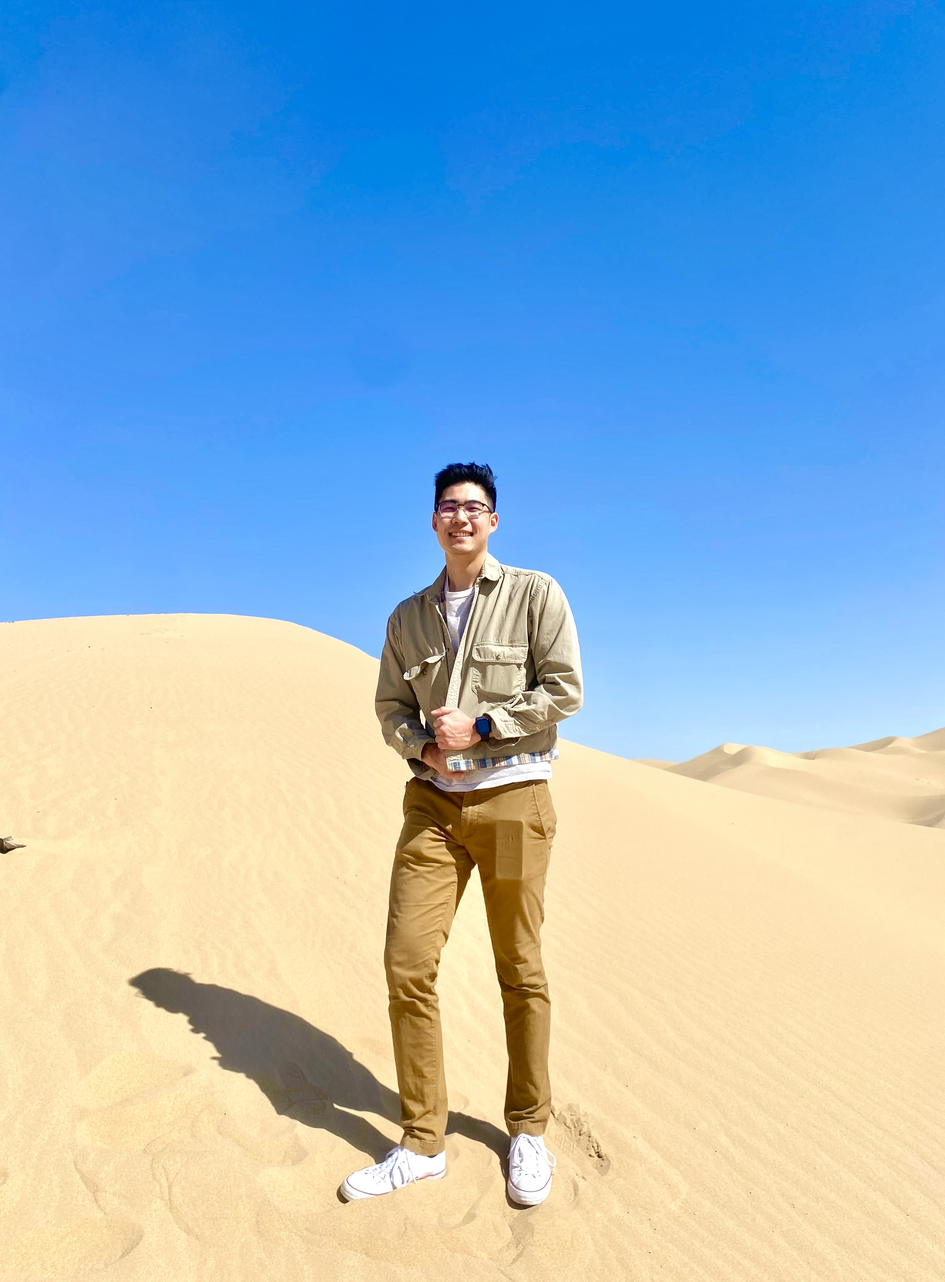
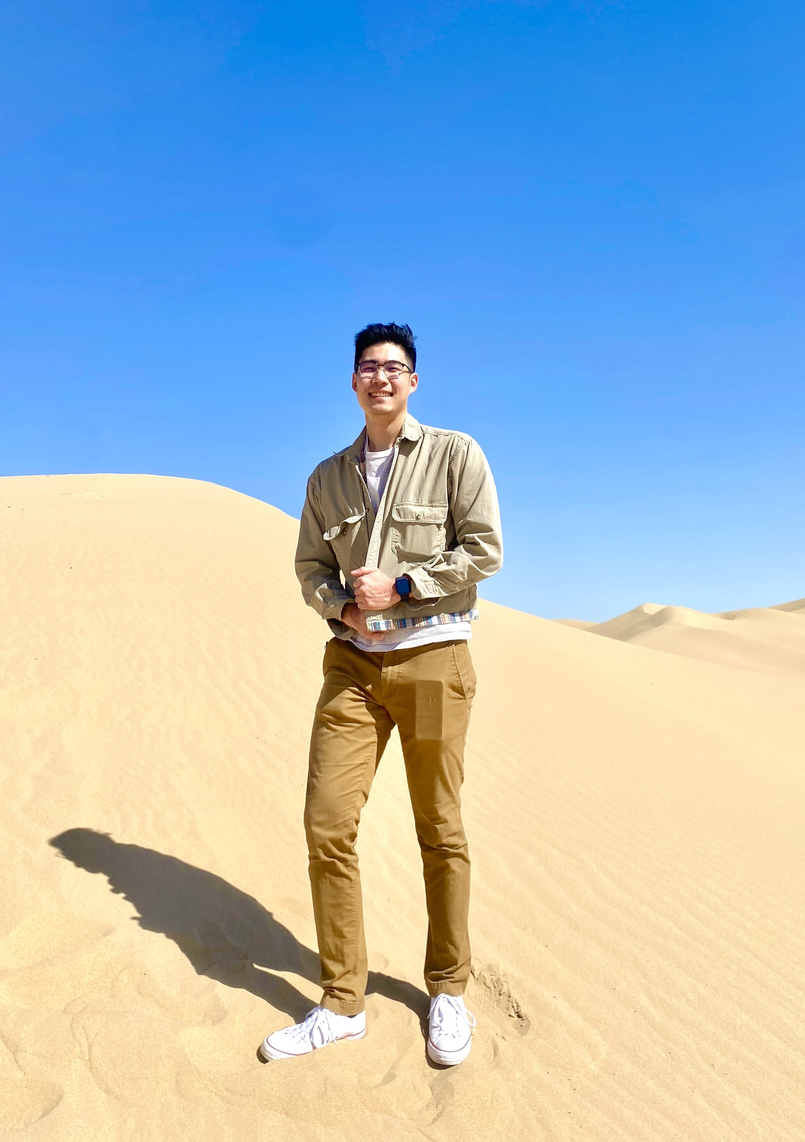
Updated About Me Page with image scaling and reorganization of text

diff --git a/aboutMe.html b/aboutMe.html
@@ -59,9 +59,16 @@
 
   <div class="container">
     <div class="row">
-      <div class="col-sm-8">
-        <h2 class="align-self-center">About me</h2>
-        <p class="align-self-center"> Prior to Web Development, I studied and worked in the biological sciences. I
+      <div class="col">
+        <img src="images/desertFrank.jpg" alt="Picture of Frank a Handsome Man" 
+          class="mx-auto animate__animated animate__fadeInRight img-responsive frankAboutMePic" />
+      </div>
+    </div>
+    <br />
+    <div class="row">
+      <div class="col">
+        <h2 class="text-center">Who is this guy?</h2>
+        <p class="text-center"> Prior to Web Development, I studied and worked in the biological sciences. I
           attended University of California, San Diego, and graduated with a Masters in Biology and a Bachelors in
           Physiology/Neuroscience. Upon graduating, I started working as a Study Coordinator at Crown Bioscience and
           worked my way up to a Study Director. Although I have enjoyed my journey thus far and have no regrets, I know
@@ -73,11 +80,6 @@
 
           Below I have a brief timeline of my journey; I hope it's not too boring for you!
         </p>
-      </div>
-
-      <div class="col-sm-4">
-        <img src="images/desertFrank.jpg" alt="Picture of Frank a Handsome Man" height="500rem"
-          class="mx-auto animate__animated animate__fadeInRight img-responsive" />
       </div>
     </div>
   </div>

diff --git a/css/styles.css b/css/styles.css
@@ -201,3 +201,8 @@ footer {
 .carousel-caption h5 {
   font-size: calc(25px + 0.5vw);
 }
+
+.frankAboutMePic {
+  max-height: 100%;
+  max-width: 100%;
+}
